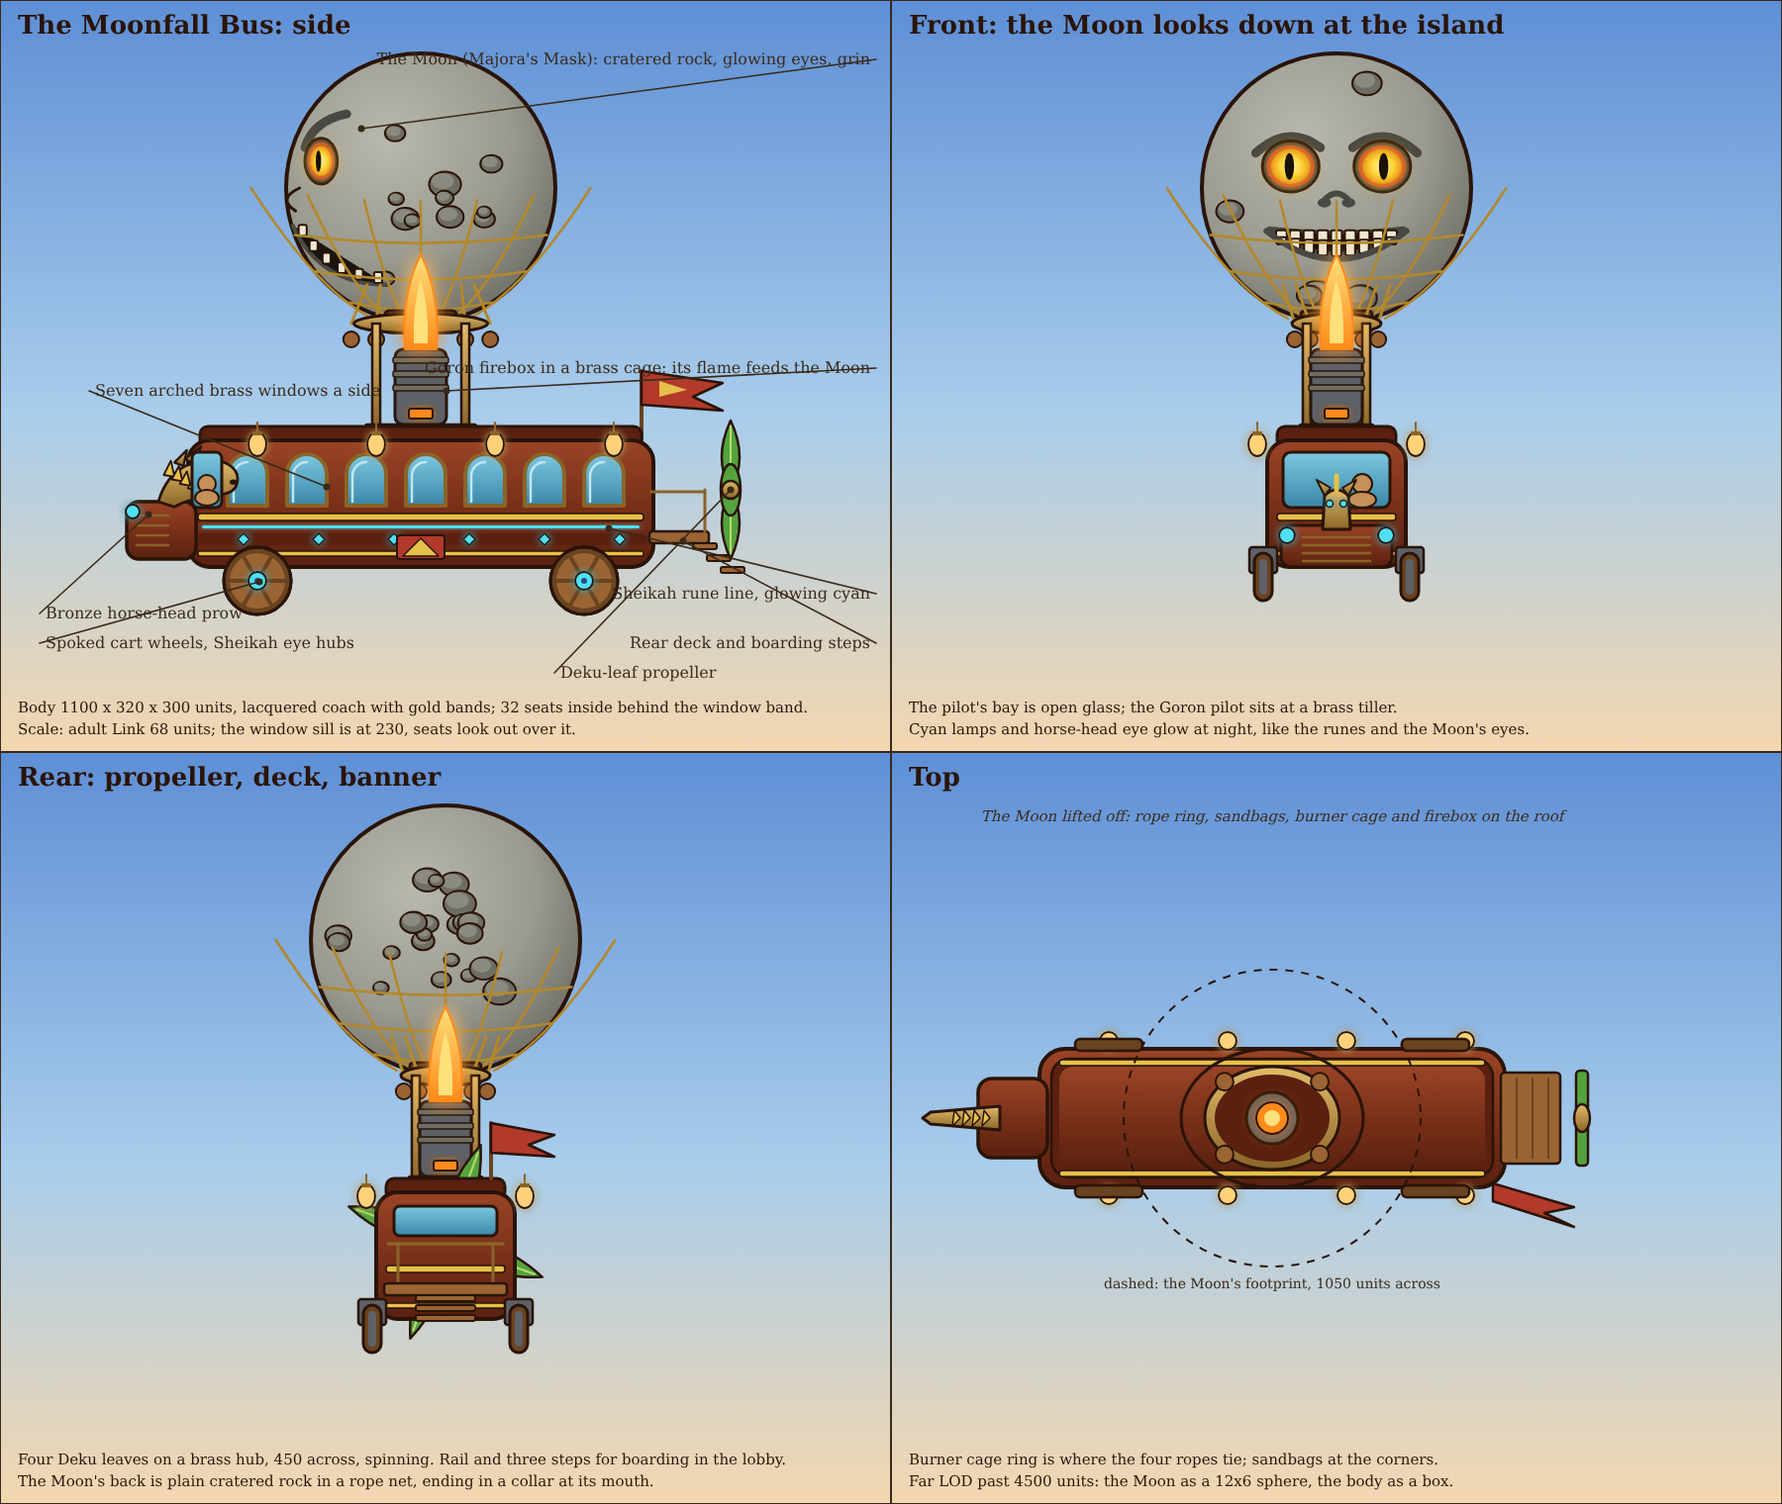
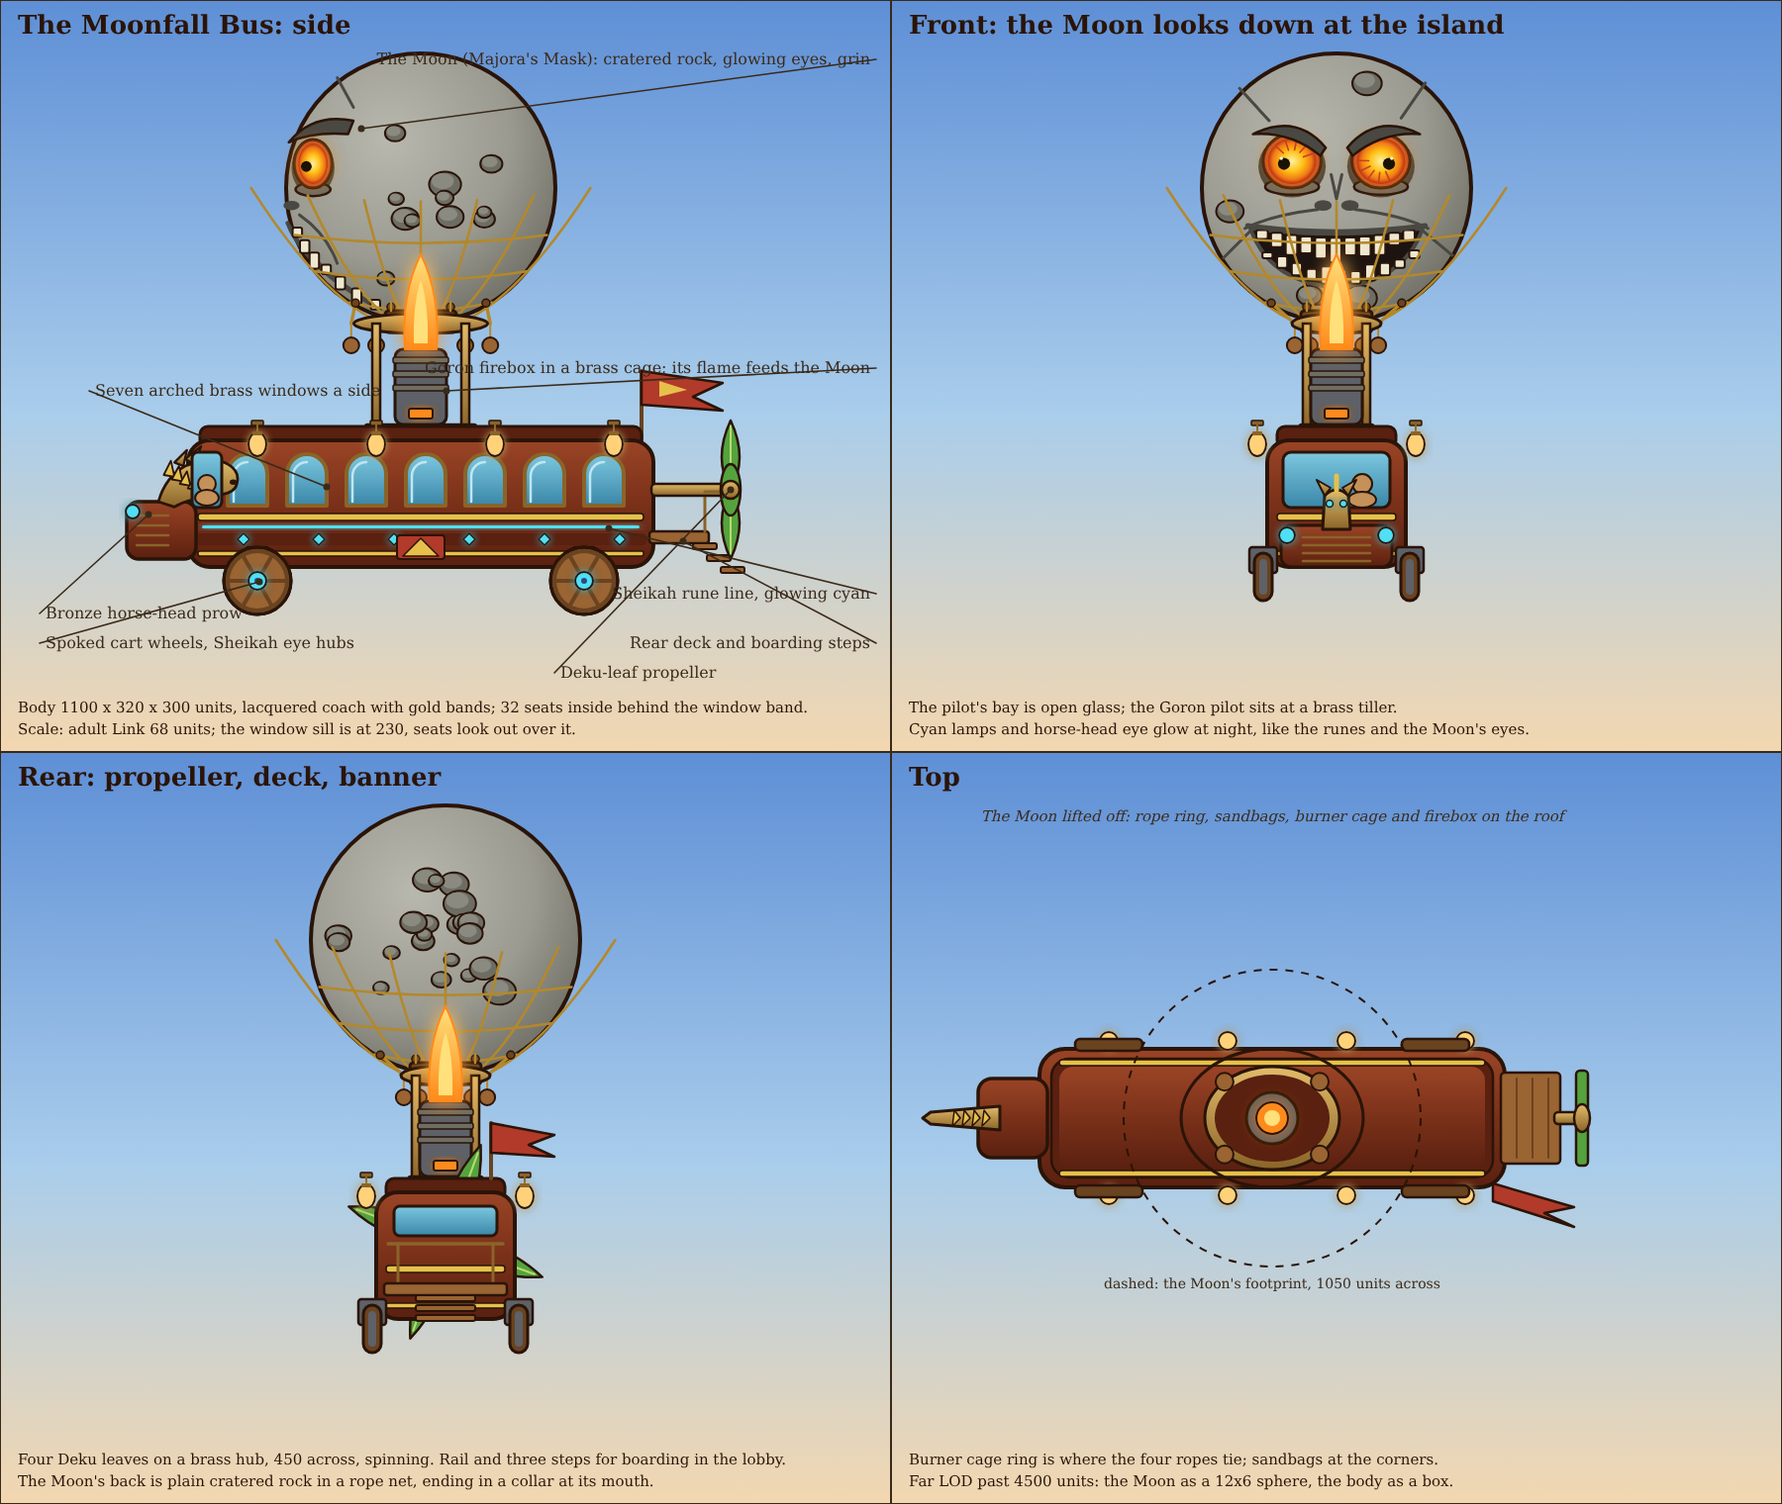
Battle Bus concept: ropes tied to the net, propeller arm, unsettling Moon face
Claude-Session: https://claude.ai/code/session_016oz4zxWLKUs5cRTx4R3kHC

diff --git a/tools/bus/concept_sheet.py b/tools/bus/concept_sheet.py
@@ -37,7 +37,7 @@ DEFS = f'''
 <defs>
   <linearGradient id="sky" x1="0" y1="0" x2="0" y2="1"><stop offset="0" stop-color="#5E8FD6"/><stop offset="0.55" stop-color="#A9CDEB"/><stop offset="1" stop-color="#F3D7B0"/></linearGradient>
   <radialGradient id="moonG" cx="0.38" cy="0.32" r="0.75"><stop offset="0" stop-color="#B8B8AE"/><stop offset="0.6" stop-color="{C['moon']}"/><stop offset="1" stop-color="{C['moon2']}"/></radialGradient>
-  <radialGradient id="eyeG" cx="0.5" cy="0.5" r="0.5"><stop offset="0" stop-color="{C['eye2']}"/><stop offset="0.55" stop-color="{C['eye']}"/><stop offset="1" stop-color="#E89A1A"/></radialGradient>
+  <radialGradient id="eyeG" cx="0.5" cy="0.5" r="0.5"><stop offset="0" stop-color="#FFF0A0"/><stop offset="0.45" stop-color="#FFC21A"/><stop offset="0.8" stop-color="#F07A14"/><stop offset="1" stop-color="#B8301A"/></radialGradient>
   <linearGradient id="lacG" x1="0" y1="0" x2="0" y2="1"><stop offset="0" stop-color="{C['lac3']}"/><stop offset="0.5" stop-color="{C['lac']}"/><stop offset="1" stop-color="{C['lac2']}"/></linearGradient>
   <linearGradient id="glassG" x1="0" y1="0" x2="0" y2="1"><stop offset="0" stop-color="{C['glass2']}"/><stop offset="1" stop-color="{C['glass']}"/></linearGradient>
   <linearGradient id="flameG" x1="0" y1="1" x2="0" y2="0"><stop offset="0" stop-color="{C['flame']}"/><stop offset="1" stop-color="{C['flame2']}"/></linearGradient>
@@ -69,49 +69,64 @@ def net(cx, cy, R, collar_y):
     return out
 def moon_front(cx, cy, R):
     s = circ(cx, cy, R, "url(#moonG)", True, 4)
-    s += craters(cx, cy, R, 5, 16, lambda x, y: abs(x - cx) < R * 0.62 and y > cy - R * 0.55 and y < cy + R * 0.62)
-    # brow ridge
+    s += craters(cx, cy, R, 5, 16, lambda x, y: abs(x - cx) < R * 0.7 and y > cy - R * 0.6 and y < cy + R * 0.7)
+    # cracks radiating from the mouth corners and the brow
+    for d in ("M-0.62 0.30 L-0.84 0.52", "M0.62 0.30 L0.86 0.50", "M-0.5 -0.5 L-0.72 -0.74", "M0.48 -0.52 L0.66 -0.78", "M0.0 0.78 L0.08 0.95"):
+        pts = d.replace("M", "").replace("L", " ").split(); x0, y0, x1, y1 = [float(v) for v in pts]
+        s += line(cx + x0*R, cy + y0*R, cx + x1*R, cy + y1*R, C["moon3"], 3)
+    # eyes: deep dark sockets, sagging bags, bloodshot orange eyes with tiny pupils that look in at the bridge
     for sx in (-1, 1):
-        s += path(f"M{cx + sx*R*0.12} {cy - R*0.30} Q{cx + sx*R*0.36} {cy - R*0.48} {cx + sx*R*0.6} {cy - R*0.26}", "none", C["moon3"], 9)
-    # eyes
+        ex, ey = cx + sx * R * 0.33, cy - R * 0.2
+        s += ell(ex, ey + R*0.04, R * 0.25, R * 0.23, C["moon3"], False)                                 # the socket's shadow
+        s += ell(ex, ey + R*0.19, R * 0.2, R * 0.06, C["moon2"], True, 2.5)                             # the bag under the eye
+        s += ell(ex, ey, R * 0.215, R * 0.2, C["sock"], True, 3)
+        s += ell(ex, ey, R * 0.18, R * 0.17, "url(#eyeG)", False, extra='filter="url(#glow2)"')
+        for k in range(5):   # veins
+            a_ = -0.6 + k * 0.5 + sx * 0.2
+            s += line(ex + math.cos(a_ + sx*1.57) * R*0.17, ey + math.sin(a_ + sx*1.57) * R*0.16, ex + math.cos(a_ + sx*1.57) * R*0.09, ey + math.sin(a_ + sx*1.57) * R*0.085, "#C8401E", 1.6)
+        s += circ(ex + sx * R * 0.06, ey + R * 0.02, R * 0.045, C["pupil"], False)
+        s += circ(ex + sx * R * 0.08, ey - R * 0.02, R * 0.012, "#FFF6DC", False)
+    # brows: thick, heavy, slanted hard inward
     for sx in (-1, 1):
-        ex, ey = cx + sx * R * 0.34, cy - R * 0.16
-        s += ell(ex, ey, R * 0.21, R * 0.19, C["moon3"], True, 3)
-        s += ell(ex, ey, R * 0.18, R * 0.16, C["sock"], False)
-        s += ell(ex, ey, R * 0.145, R * 0.13, "url(#eyeG)", False, extra='filter="url(#glow2)"')
-        s += ell(ex + sx * R * 0.01, ey, R * 0.035, R * 0.1, C["pupil"], False)
-    # nose
-    s += path(f"M{cx - R*0.1} {cy + R*0.1} Q{cx} {cy - R*0.02} {cx + R*0.1} {cy + R*0.1}", "none", C["moon3"], 6)
-    for sx in (-1, 1): s += ell(cx + sx * R * 0.09, cy + R * 0.11, R * 0.05, R * 0.035, C["moon3"], False)
-    # mouth: wide grin with two rows of teeth
-    my = cy + R * 0.38
-    s += path(f"M{cx - R*0.5} {my - R*0.08} Q{cx} {my + R*0.3} {cx + R*0.5} {my - R*0.08} Q{cx} {my - R*0.02} {cx - R*0.5} {my - R*0.08} Z", C["mouth"], C["moon3"], 4)
-    n = 9
+        s += path(f"M{cx + sx*R*0.08} {cy - R*0.3} Q{cx + sx*R*0.3} {cy - R*0.56} {cx + sx*R*0.62} {cy - R*0.4} Q{cx + sx*R*0.34} {cy - R*0.42} {cx + sx*R*0.12} {cy - R*0.24} Z", C["moon3"], C["line"], 2.5)
+    # the nose is only two flared nostrils and a crease between the eyes
+    s += path(f"M{cx - R*0.04} {cy - R*0.1} L{cx} {cy + R*0.08} L{cx + R*0.04} {cy - R*0.1}", "none", C["moon3"], 3)
+    for sx in (-1, 1): s += ell(cx + sx * R * 0.1, cy + R * 0.13, R * 0.065, R * 0.04, C["moon3"], False)
+    # the grin: stretched wider than the eyes, lips pulled back, two rows of big uneven teeth with a black gap
+    my = cy + R * 0.4
+    s += path(f"M{cx - R*0.64} {my - R*0.1} Q{cx} {my - R*0.02} {cx + R*0.64} {my - R*0.1} Q{cx + R*0.5} {my + R*0.3} {cx} {my + R*0.34} Q{cx - R*0.5} {my + R*0.3} {cx - R*0.64} {my - R*0.1} Z", C["mouth"], C["moon3"], 4)
+    n = 11
     for i in range(n):
-        t = (i + 0.5) / n; x = cx - R * 0.46 + t * R * 0.92
-        top = my - R * 0.08 + (1 - (2*t-1)**2) * R * 0.0 + 2
-        h = (1 - (2*t-1)**2) * R * 0.09 + R * 0.04
-        s += rect(x - R*0.04, top, R * 0.08, h, C["teeth"], 2, True, 2)
-        s += rect(x - R*0.036, my + R*0.02 + (1 - (2*t-1)**2) * R * 0.12 - h, R * 0.072, h * 0.9, C["teeth"], 2, True, 2)
-    s += path(f"M{cx - R*0.52} {my - R*0.06} Q{cx} {my + R*0.36} {cx + R*0.52} {my - R*0.06}", "none", C["moon3"], 6)
+        t = (i + 0.5) / n; x = cx - R * 0.6 + t * R * 1.2; bow = (1 - (2*t-1)**2)
+        h = R * (0.06 + 0.1 * bow) * (0.85 + 0.3 * ((i * 7) % 3) / 2)
+        s += rect(x - R*0.05, my - R*0.1 + bow * R*0.07, R * 0.1 - 2, h, C["teeth"], 2, True, 2)
+        hb = R * (0.04 + 0.08 * bow) * (0.8 + 0.3 * ((i * 5) % 3) / 2)
+        s += rect(x - R*0.045 + R*0.04, my + R*0.34 * bow - hb - R*0.02 + (1 - bow) * R * 0.1, R * 0.09 - 2, hb, C["teeth"], 2, True, 2)
+    s += path(f"M{cx - R*0.66} {my - R*0.12} Q{cx} {my - R*0.03} {cx + R*0.66} {my - R*0.12}", "none", C["moon3"], 5)      # upper lip line
+    for sx in (-1, 1): s += path(f"M{cx + sx*R*0.14} {cy + R*0.16} Q{cx + sx*R*0.48} {cy + R*0.2} {cx + sx*R*0.68} {cy + R*0.3}", "none", C["moon3"], 3)   # the creases down from the nostrils
     return s
 def moon_side(cx, cy, R, facing=-1):
     """profile: the face is on the `facing` side (-1 = left)"""
     s = circ(cx, cy, R, "url(#moonG)", True, 4)
-    s += craters(cx, cy, R, 7, 15, lambda x, y: (x - cx) * facing > R * 0.35)
+    s += craters(cx, cy, R, 7, 15, lambda x, y: (x - cx) * facing > R * 0.3)
     f = facing
-    # brow, eye, nose bump, grin along the facing edge
-    s += path(f"M{cx + f*R*0.55} {cy - R*0.55} Q{cx + f*R*0.8} {cy - R*0.5} {cx + f*R*0.86} {cy - R*0.3}", "none", C["moon3"], 9)
-    ex, ey = cx + f * R * 0.74, cy - R * 0.2
-    s += ell(ex, ey, R * 0.12, R * 0.17, C["moon3"], True, 3) + ell(ex, ey, R * 0.1, R * 0.14, C["sock"], False)
-    s += ell(ex, ey, R * 0.08, R * 0.11, "url(#eyeG)", False, extra='filter="url(#glow2)"') + ell(ex + f * R*0.02, ey, R * 0.02, R * 0.08, C["pupil"], False)
-    s += path(f"M{cx + f*R*0.9} {cy} Q{cx + f*R*1.07} {cy + R*0.08} {cx + f*R*0.93} {cy + R*0.17}", C["moon"], C["line"], 3)     # nose
-    s += path(f"M{cx + f*R*0.95} {cy + R*0.28} Q{cx + f*R*0.75} {cy + R*0.72} {cx + f*R*0.25} {cy + R*0.72}", C["mouth"], C["moon3"], 4)
-    p0 = (cx + f*R*0.95, cy + R*0.28); p1 = (cx + f*R*0.75, cy + R*0.72); p2 = (cx + f*R*0.25, cy + R*0.72)
-    for i in range(6):
-        t = 0.1 + i * 0.16
+    s += path(f"M{cx + f*R*0.5} {cy - R*0.6} L{cx + f*R*0.62} {cy - R*0.82}", "none", C["moon3"], 3)
+    # brow ridge over a sunken socket, the eye bulging out past the rock
+    s += path(f"M{cx + f*R*0.5} {cy - R*0.5} Q{cx + f*R*0.8} {cy - R*0.56} {cx + f*R*0.98} {cy - R*0.34} Q{cx + f*R*0.8} {cy - R*0.42} {cx + f*R*0.54} {cy - R*0.4} Z", C["moon3"], C["line"], 2.5)
+    ex, ey = cx + f * R * 0.8, cy - R * 0.18
+    s += ell(ex, ey + R*0.03, R * 0.16, R * 0.2, C["moon3"], False) + ell(ex, ey + R*0.19, R*0.13, R*0.05, C["moon2"], True, 2.5)
+    s += ell(ex, ey, R * 0.14, R * 0.18, C["sock"], True, 3) + ell(ex, ey, R * 0.11, R * 0.15, "url(#eyeG)", False, extra='filter="url(#glow2)"')
+    s += circ(ex + f * R * 0.05, ey + R * 0.02, R * 0.04, C["pupil"], False)
+    s += ell(cx + f*R*0.96, cy + R*0.13, R*0.06, R*0.035, C["moon3"], False)   # nostril
+    # the grin wraps round the lower front: a dark wedge with big teeth along the lip line
+    s += path(f"M{cx + f*R*0.99} {cy + R*0.26} Q{cx + f*R*0.86} {cy + R*0.6} {cx + f*R*0.3} {cy + R*0.9} Q{cx + f*R*0.62} {cy + R*0.72} {cx + f*R*0.9} {cy + R*0.42} Z", C["mouth"], C["moon3"], 4)
+    p0 = (cx + f*R*0.99, cy + R*0.26); p1 = (cx + f*R*0.86, cy + R*0.6); p2 = (cx + f*R*0.3, cy + R*0.9)
+    for i in range(7):
+        t = 0.08 + i * 0.14
         x = (1-t)**2*p0[0] + 2*(1-t)*t*p1[0] + t*t*p2[0]; y = (1-t)**2*p0[1] + 2*(1-t)*t*p1[1] + t*t*p2[1]
-        s += rect(x - R*0.03 - f*R*0.03, y - R*0.09, R*0.06, R*0.08, C["teeth"], 2, True, 2)
+        h = R * (0.07 + 0.05 * ((i * 7) % 3) / 2)
+        s += rect(x - R*0.035 - f*R*0.05, y - R*0.02, R*0.07, h, C["teeth"], 2, True, 2)
+    s += path(f"M{cx + f*R*0.9} {cy + R*0.2} Q{cx + f*R*0.7} {cy + R*0.34} {cx + f*R*0.62} {cy + R*0.56}", "none", C["moon3"], 3)   # the cheek crease
     return s
 def moon_back(cx, cy, R):
     return circ(cx, cy, R, "url(#moonG)", True, 4) + craters(cx, cy, R, 9, 22)
@@ -132,11 +147,16 @@ def cage(cx, top, bottom, w=90):
     s += path(f"M{cx - 7} {ring_y + 20} Q{cx - 8} {ring_y - 20} {cx} {ring_y - 44} Q{cx + 8} {ring_y - 20} {cx + 7} {ring_y + 20} Z", C["flame2"], "none", 0)
     return s
 def ropes(ring_x, ring_y, w, moon_cx, moon_cy, R, collar_y):
-    s = rect(moon_cx - 36, collar_y - 14, 72, 22, C["wood2"], 4, True, 3)   # the mouth collar
+    s = ""
+    yj = moon_cy + R * 0.85; wj = math.sqrt(1 - 0.85 * 0.85) * R          # the net's bottom ring: the ropes tie here
     for sx in (-1, 1):
-        for k in (0.5, 0.78):
-            s += line(ring_x + sx * w * k, ring_y, moon_cx + sx * R * (0.3 + 0.35 * (k - 0.5)), moon_cy + R * 0.72, C["gold2"], 3)
-            s += circ(ring_x + sx * w * k, ring_y + 16, 8, C["wood"], True, 2)   # sandbag
+        for k, nx in ((0.5, 0.42), (0.78, 0.92)):
+            x0, y0 = ring_x + sx * w * k, ring_y; x1, y1 = moon_cx + sx * wj * nx, yj + (1 - nx) * R * 0.06
+            s += line(x0, y0, x1, y1, C["gold2"], 3.5)
+            s += circ(x1, y1, 4, C["wood2"], True, 1.5)                     # the knot
+            s += line(x0, y0, x0, y0 + 14, C["gold2"], 2) + circ(x0, y0 + 22, 8, C["wood"], True, 2)   # sandbag hanging off the ring
+    s += rect(moon_cx - 36, collar_y - 14, 72, 22, C["wood2"], 4, True, 3)   # the mouth collar
+    for sx in (-1, 1): s += line(moon_cx + sx * 30, collar_y - 14, moon_cx + sx * wj * 0.42, yj, C["gold2"], 2.5)
     return s
 
 # ------------------------------------------------------------------------------------------------------------------- the coach: side view
@@ -150,7 +170,7 @@ def wheel(cx, cy, r):
 def leaf(cx, cy, L, W, angle, color=None):
     return f'<g transform="rotate({angle} {cx} {cy})">' + path(f"M{cx} {cy} Q{cx - W} {cy - L*0.45} {cx} {cy - L} Q{cx + W} {cy - L*0.45} {cx} {cy} Z", color or C["leaf"], C["line"], 2.5) + line(cx, cy, cx, cy - L * 0.92, C["leaf2"], 2) + "</g>"
 def lantern(cx, cy):
-    return line(cx, cy - 14, cx, cy - 4, C["brass2"], 2) + ell(cx, cy + 8, 9, 12, C["lantern"], True, 2, 'filter="url(#glow)"') + rect(cx - 5, cy - 5, 10, 4, C["brass2"], 1, False)
+    return rect(cx - 6, cy - 16, 12, 5, C["brass2"], 1, True, 1.5) + line(cx, cy - 12, cx, cy - 4, C["brass2"], 2) + ell(cx, cy + 8, 9, 12, C["lantern"], True, 2, 'filter="url(#glow)"') + rect(cx - 5, cy - 5, 10, 4, C["brass2"], 1, False)
 def horse_head(x, y, f=-1, scale=1.0):
     """bronze horse head, nose pointing in direction f, neck base at (x, y)"""
     s = f'<g transform="translate({x} {y}) scale({f*scale} {scale})">'
@@ -210,6 +230,8 @@ def side_view(ox, oy, mirror=False):
     for k in range(3): s += rect(bx + bw + 40 + k * 14, by + 104 + k * 12, 24, 6, C["wood"], 2, True, 2)
     # propeller at the rear
     hx, hy = bx + bw + 78, by + 50
+    s += rect(bx + bw - 2, hy - 6, hx - bx - bw + 2, 12, "url(#brassG)", 4, True, 2.5)      # the brass arm from the body to the hub
+    s += line(bx + bw + 52, by + 52, hx - 10, hy + 2, C["brass2"], 3)
     s += leaf(hx, hy, 70, 18, 0) + leaf(hx, hy, 70, 18, 180) + ell(hx, hy, 10, 26, C["leaf"], True, 2.5)
     s += circ(hx, hy, 9, "url(#brassG)", True, 2.5)
     return s
@@ -277,6 +299,7 @@ def top_view(ox, oy):
     s += rect(bx + bw - 4, by + 24, 60, 92, C["wood"], 4, True, 2.5)
     for k in range(3): s += line(bx + bw + 12 + k * 16, by + 30, bx + bw + 12 + k * 16, by + 110, C["wood2"], 2)
     hx, hy = bx + bw + 78, by + bh * 0.5
+    s += rect(bx + bw + 50, hy - 6, hx - bx - bw - 50, 12, "url(#brassG)", 4, True, 2.5)
     s += rect(hx - 6, hy - 48, 12, 96, C["leaf"], 4, True, 2.5) + ell(hx, hy, 8, 14, "url(#brassG)", True, 2.5)
     # wheels, tucked under the skirt: just their outer edges show
     for wx in (bx + 70, bx + bw - 70):

diff --git a/docs/BATTLE_BUS.md b/docs/BATTLE_BUS.md
@@ -32,16 +32,16 @@ height above the roof.
 
 | Part | What it looks like | Colours (art guide) |
 |---|---|---|
-| The Moon | A grey, cratered rock sphere 1050 units across, the Majora's Mask Moon as it hangs over Clock Town: a heavy brow, two huge yellow-glowing eyes in red-rimmed sockets with slit pupils, flared nostrils, and a wide grin of big square teeth, top and bottom. The face looks forward and down at the island. A rope net over its lower half ends in a dark collar at its mouth, and the burner's flame goes up into the collar (the Moon "swallows" the fire). The face is one 256x256 texture with the eyes as emissive regions; the rest of the sphere tiles a 128x128 crater texture, with the craters also dented in the mesh. | rock #7A7A72, shadow #3E3C38, eye yellow #FFD23A (glowing), socket red #C83A1E, teeth #E9E2CC |
-| Burner cage | A brass cage on the roof holding the Goron firebox (a round iron stove banded with rock, a bomb flower glowing in its mouth); the flame rises from it. Four ropes from the cage's ring up to the net, a sandbag on each. | brass #B98B3C, iron #55585E, flame #FF7A1A |
+| The Moon | A grey, cratered rock sphere 1050 units across, the Majora's Mask Moon as it hangs over Clock Town, and it has to be unsettling, not cute: thick dark brows slanted hard inward, sunken sockets with sagging bags under them, huge bulging orange eyes (yellow centre, red rim, bloodshot veins) with tiny pupils that look in toward the bridge, no nose but two flared nostrils and a crease between the eyes, deep creases from the nostrils down past the mouth corners, cracks in the rock radiating from the grin, and a grin stretched wider than the eyes with the lips pulled back over two rows of big uneven teeth and a black gap between them. The face looks forward and down at the island. A rope net over its lower half ends in a dark collar at its mouth, and the burner's flame goes up into the collar (the Moon "swallows" the fire). The face is one 256x256 texture with the eyes as emissive regions; the rest of the sphere tiles a 128x128 crater texture, with the craters also dented in the mesh. | rock #7A7A72, shadow #3E3C38, eye yellow #FFD23A (glowing), socket red #C83A1E, teeth #E9E2CC |
+| Burner cage | A brass cage on the roof holding the Goron firebox (a round iron stove banded with rock, a bomb flower glowing in its mouth); the flame rises from it. Four ropes run from the cage's ring up to knots on the net's bottom ring, so the Moon is visibly tied to the bus, and a sandbag hangs on a short line from each corner of the cage ring. Nothing floats: every rope, lantern, arm and pole is attached at both ends. | brass #B98B3C, iron #55585E, flame #FF7A1A |
 | Body | A royal coach stretched to a bus, 1100 long, 320 wide, 300 high, rounded corners: dark red lacquer with gold bands at the waist and skirt, seven arched windows a side with brass frames and round brass portholes over them, a red crest plaque with a gold Triforce on each flank. Sheikah ornament in Master Cycle style: one thin cyan rune line runs the length of the waist and a Sheikah eye glows on every wheel hub. Open glass front for the pilot, a short hood with a brass grille, cyan lamps. | lacquer #6A2A16 and #4A1C0E, gold #E0B93A, crest red #B23A2A, rune cyan #3FD6F2 (glowing) |
 | Horse-head prow | A bronze horse head on the hood, mane of gold fins, a glowing cyan eye, Epona as the Master Cycle shows her. | brass, rune cyan |
 | Seats | Inside, two rows of 16 benches facing forward, 32 seats, red saddle cloth with a gold stripe; the open window band is at head height so you see the island from your seat. | saddle brown #671E09, red #AD3725 |
 | Pilot | The Goron ally model (`shared/ally_goron_model.h`) on a stool in the glass front, one hand on a brass tiller. | as the ally |
-| Propeller | Four Deku leaves on a brass hub at the rear, 450 across, spinning. | leaf #4E9A3C, vein #A9D36A |
+| Propeller | Four Deku leaves on a brass hub at the rear, 450 across, spinning; the hub sits on a brass arm bolted to the rear deck, braced to the rail. | leaf #4E9A3C, vein #A9D36A |
 | Wheels | Four big spoked cart wheels on iron arms, tucked up under the skirt, the glowing hub eyes facing out. | dark wood, iron |
 | Rear platform | A wooden deck with a brass rail and three steps (the lobby's boarding ramp), a Hylian crest pennant on a pole off its corner. | wood #8E5A2B, crest red and gold |
-| Lanterns | Eight paper lanterns under the eaves, warm glow, swinging. | lantern #FFCF6E |
+| Lanterns | Eight paper lanterns on brass hooks under the eaves, warm glow, swinging. | lantern #FFCF6E |
 
 The glider gets a matching skin: a Deku Leaf (Wind Waker) held overhead, one big green leaf with pale veins and a few sparkles, in place of
 the striped hang glider, as an optional step in the build plan (the existing cloth sim gives it the flutter). The old glider stays as a
